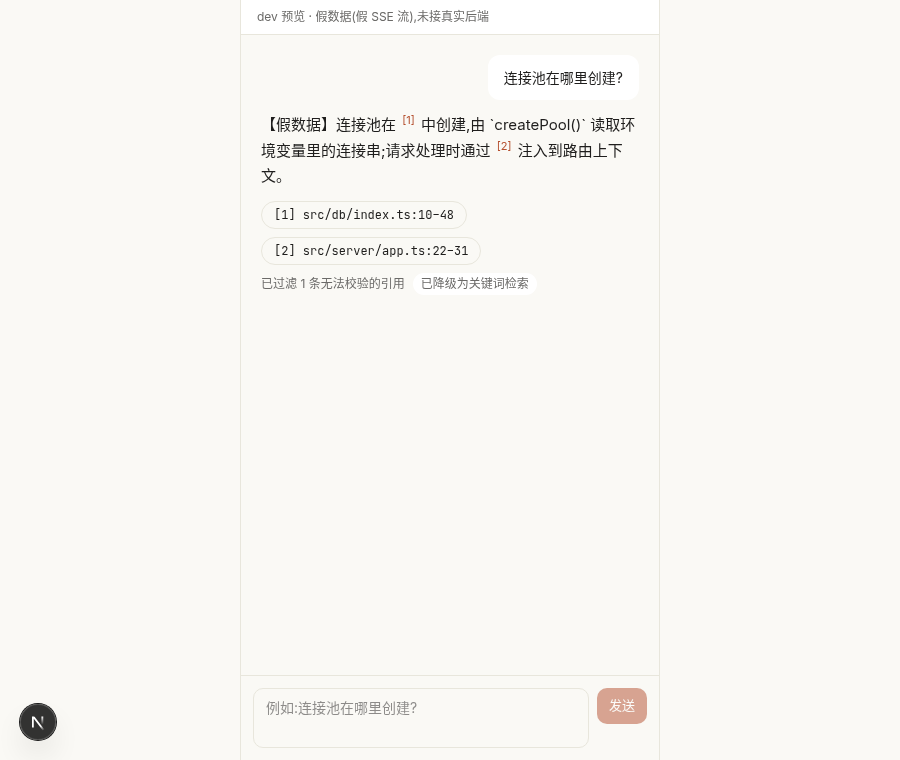
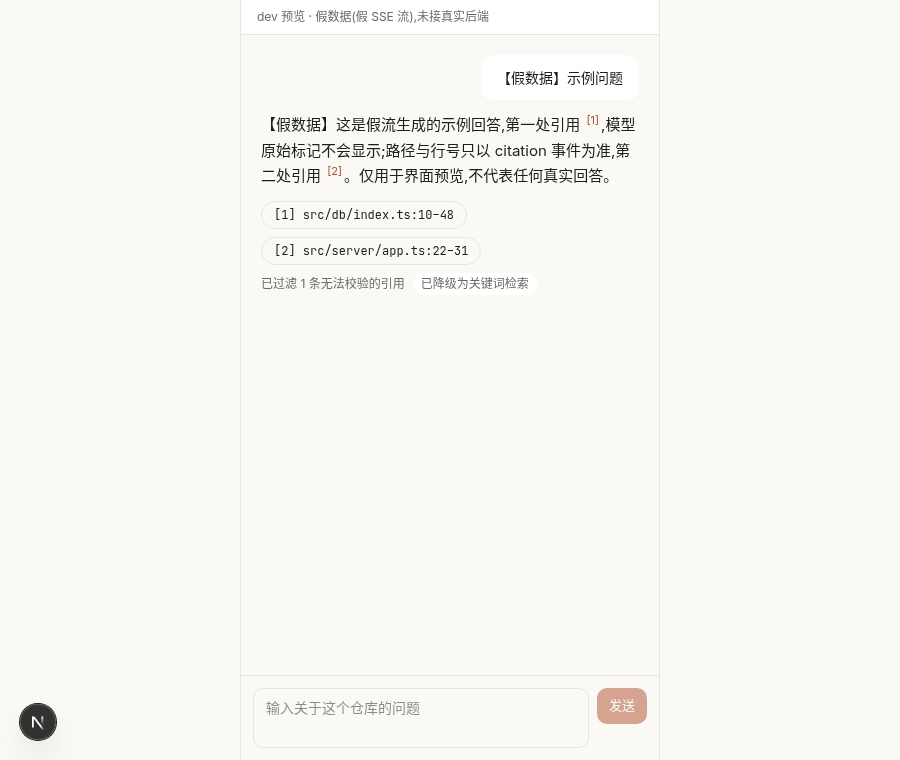
feat(web): 对齐问答端点裁定——请求体集中构造、2000 字/20 节点上限、隐藏 [[Sn:a-b]] 标记、fallback 未生成回答文案、断流可重试(T-230)

Changed region(s): [[0.28, 0.1513, 0.7156, 0.2421], [0.28, 0.9079, 0.4667, 0.9382], [0.56, 0.0908, 0.7156, 0.1211]]

diff --git a/apps/web/components/chat/ChatPanel.tsx b/apps/web/components/chat/ChatPanel.tsx
@@ -9,7 +9,13 @@ import {
   type AnswerAction,
 } from '../../lib/chat/answer';
 import { chatErrorText, RATE_LIMIT_COOLDOWN_S } from '../../lib/chat/errors';
-import { ChatTransportError, type ChatTransport } from '../../lib/chat/transport';
+import {
+  buildChatRequest,
+  CHAT_MESSAGE_MAX,
+  ChatTransportError,
+  stripCitationMarkers,
+  type ChatTransport,
+} from '../../lib/chat/transport';
 
 /** FRONTEND_DESIGN §6.1:20 秒内既没有 token 也没有 done/error,前端主动 abort */
 export const CLIENT_TIMEOUT_MS = 20_000;
@@ -70,10 +76,8 @@ export function ChatPanel({ repoId, transport, onCitationClick, contextNodeIds }
         timer = undefined;
       };
       try {
-        const req = {
-          message: question,
-          ...(contextNodeIds?.length ? { contextNodeIds } : {}),
-        };
+        const req = buildChatRequest(question, contextNodeIds);
+        if (!req) return;
         for await (const item of transport(repoId, req, ctrl.signal)) {
           if (!mine()) return;
           if (!item.ok) {
@@ -105,7 +109,7 @@ export function ChatPanel({ repoId, transport, onCitationClick, contextNodeIds }
 
   const ask = (question: string) => {
     const q = question.trim();
-    if (!q) return;
+    if (!q || q.length > CHAT_MESSAGE_MAX) return;
     const id = nextId.current++;
     setMsgs((ms) => [...ms, { id, question: q, answer: initialAnswer }]);
     void run(id, q);
@@ -157,14 +161,14 @@ export function ChatPanel({ repoId, transport, onCitationClick, contextNodeIds }
               }
             }}
             rows={2}
-            maxLength={4000}
-            placeholder="例如:连接池在哪里创建?"
+            maxLength={CHAT_MESSAGE_MAX}
+            placeholder="输入关于这个仓库的问题"
             className="min-w-0 flex-1 resize-none rounded-control border border-line bg-bg px-3 py-2 font-sans text-[14px] text-fg disabled:opacity-60"
           />
           <div className="flex flex-col gap-1">
             <button
               type="submit"
-              disabled={budgetOut || !input.trim()}
+              disabled={budgetOut || !input.trim() || input.trim().length > CHAT_MESSAGE_MAX}
               className="rounded-control bg-accent-strong px-3 py-2 text-[13px] text-on-accent disabled:opacity-50"
             >
               发送
@@ -211,7 +215,15 @@ function AnswerView({
       {a.segments.length > 0 && (
         <p className="whitespace-pre-wrap text-[15px] leading-[1.7] text-fg">
           {a.segments.map((s, i) => {
-            if (s.kind === 'text') return <span key={i}>{s.text}</span>;
+            if (s.kind === 'text')
+              return (
+                <span key={i}>
+                  {stripCitationMarkers(
+                    s.text,
+                    a.status === 'streaming' && i === a.segments.length - 1,
+                  )}
+                </span>
+              );
             const c = byId.get(s.id);
             return (
               <sup key={i}>
@@ -258,10 +270,10 @@ function AnswerNotes({ a, onRetry }: { a: Answer; onRetry: () => void }) {
       notes.push(
         <span
           key="fb"
-          title="模型给出的引用未通过校验,改用检索得到的片段"
+          title="问答额度已用完或生成服务暂不可用,本次未生成回答"
           className="rounded-full bg-panel px-2 py-0.5"
         >
-          引用来自检索结果
+          未生成回答:问答服务暂不可用或额度已用完,以下仅列出检索到的相关代码位置
         </span>,
       );
     if (a.done.retrieval === 'keyword-only')
@@ -279,7 +291,8 @@ function AnswerNotes({ a, onRetry }: { a: Answer; onRetry: () => void }) {
       cooldown: a.error.code === 'RATE_LIMITED',
     };
   else if (a.status === 'timeout') problem = { text: '回答超时,请重试', retry: true };
-  else if (a.status === 'interrupted') problem = { text: '回答中断', retry: true };
+  else if (a.status === 'interrupted')
+    problem = { text: '回答中途断开,已保留已输出内容,可重试', retry: true };
   else if (a.status === 'aborted') problem = { text: '已停止', retry: true };
   if (notes.length === 0 && !problem) return null;
   return (

diff --git a/apps/web/components/chat/ChatPanel.test.tsx b/apps/web/components/chat/ChatPanel.test.tsx
@@ -4,7 +4,7 @@ import { afterEach, describe, expect, it, vi } from 'vitest';
 import { createFakeTransport, DEMO_SCRIPT, type FakeStep } from '../../dev/fakeChatStream';
 import { ChatPanel, CLIENT_TIMEOUT_MS } from './ChatPanel';
 
-function ask(q = '连接池在哪里创建?') {
+function ask(q = '【假数据】示例问题') {
   fireEvent.change(screen.getByRole('textbox', { name: '提问' }), { target: { value: q } });
   fireEvent.click(screen.getByRole('button', { name: '发送' }));
 }
@@ -23,7 +23,7 @@ describe('<ChatPanel>(假流,未接真实后端)', () => {
     ask();
     await waitFor(() => expect(lastAnswer().dataset.status).toBe('done'));
     const a = lastAnswer();
-    expect(a).toHaveTextContent('连接池在 [1] 中创建');
+    expect(a).toHaveTextContent('第一处引用 [1],模型原始标记不会显示');
     expect(within(a).getByRole('list', { name: '引用' })).toHaveTextContent(
       'src/db/index.ts:10–48',
     );
@@ -32,7 +32,7 @@ describe('<ChatPanel>(假流,未接真实后端)', () => {
     expect(a.className).toContain('font-sans');
   });
 
-  it('retrieval=hybrid 或缺省时不显示降级提示;fallback=retrieval 显示「引用来自检索结果」', async () => {
+  it('retrieval=hybrid 或缺省时不显示降级提示;fallback=retrieval 显示「未生成回答」', async () => {
     render(
       <ChatPanel
         repoId={1}
@@ -53,7 +53,7 @@ describe('<ChatPanel>(假流,未接真实后端)', () => {
     ask();
     await waitFor(() => expect(lastAnswer().dataset.status).toBe('done'));
     expect(lastAnswer()).not.toHaveTextContent('已降级为关键词检索');
-    expect(lastAnswer()).toHaveTextContent('引用来自检索结果');
+    expect(lastAnswer()).toHaveTextContent('未生成回答');
   });
 
   it('点击角标或引用卡片回调该引用(由工作区跳到文件预览/图节点)', async () => {
@@ -141,11 +141,11 @@ describe('<ChatPanel>(假流,未接真实后端)', () => {
     expect(screen.getByRole('button', { name: '重试' })).toBeEnabled();
   });
 
-  it('流在 done 前结束 → 「回答中断」,保留已输出 token 与可点引用', async () => {
+  it('流在 done 前结束 → 「回答中途断开」可重试,保留已输出 token 与可点引用', async () => {
     render(<ChatPanel repoId={1} transport={createFakeTransport(DEMO_SCRIPT.slice(0, 4))} />);
     ask();
-    await waitFor(() => expect(screen.getByRole('alert')).toHaveTextContent('回答中断'));
-    expect(lastAnswer()).toHaveTextContent('连接池在');
+    await waitFor(() => expect(screen.getByRole('alert')).toHaveTextContent('回答中途断开'));
+    expect(lastAnswer()).toHaveTextContent('假流生成的示例回答');
     expect(screen.getByRole('button', { name: /src\/db\/index\.ts:10–48/ })).toBeTruthy();
   });
 

diff --git a/apps/web/lib/chat/transport.test.ts b/apps/web/lib/chat/transport.test.ts
@@ -1,5 +1,11 @@
 import { describe, expect, it, vi } from 'vitest';
-import { ChatTransportError, createFetchTransport, type ChatItem } from './transport';
+import {
+  buildChatRequest,
+  ChatTransportError,
+  createFetchTransport,
+  stripCitationMarkers,
+  type ChatItem,
+} from './transport';
 
 function sseResponse(body: string, status = 200) {
   return new Response(body, { status, headers: { 'content-type': 'text/event-stream' } });
@@ -69,5 +75,26 @@ describe('createFetchTransport', () => {
       throw new DOMException('aborted', 'AbortError');
     });
     expect(await drain(t(1, { message: 'q' }, ac.signal))).toEqual([]);
+  });
+});
+
+describe('buildChatRequest(请求体唯一构造点)', () => {
+  it('字段名 message;trim;空或超过 2000 字返回 null;contextNodeIds 最多 20 个', () => {
+    expect(buildChatRequest('  问  ')).toEqual({ message: '问' });
+    expect(buildChatRequest('   ')).toBeNull();
+    expect(buildChatRequest('x'.repeat(2000))?.message).toHaveLength(2000);
+    expect(buildChatRequest('x'.repeat(2001))).toBeNull();
+    const ids = Array.from({ length: 25 }, (_, i) => `f:src/a${i}.ts`);
+    expect(buildChatRequest('q', ids)?.contextNodeIds).toHaveLength(20);
+    expect(buildChatRequest('q', [])).toEqual({ message: 'q' });
+  });
+});
+
+describe('stripCitationMarkers', () => {
+  it('去掉 [[Sn:a-b]] 原始标记;流式时隐藏未闭合尾巴,结束后保留普通方括号', () => {
+    expect(stripCitationMarkers('见 [[S1:10-20]] 与[[S12:3-3]]。', false)).toBe('见  与。');
+    expect(stripCitationMarkers('见 [[S1:1', true)).toBe('见 ');
+    expect(stripCitationMarkers('数组 a[0]', true)).toBe('数组 a[0]');
+    expect(stripCitationMarkers('末尾 [', false)).toBe('末尾 [');
   });
 });

diff --git a/apps/web/lib/chat/transport.ts b/apps/web/lib/chat/transport.ts
@@ -4,6 +4,38 @@ import { ERROR_TEXT, looseError } from '../api/errors';
 import type { ChatErrorInfo } from './answer';
 import { parseSse } from './sse';
 
+/** 输入框上限(trim 后非空);架构师裁定可能收紧 shared 到 ≤2000,前端先按 2000 */
+export const CHAT_MESSAGE_MAX = 2000;
+/** W3 后端只做格式校验、不影响检索;前端最多传 20 个 */
+export const CHAT_CONTEXT_MAX = 20;
+
+/**
+ * 请求体唯一构造点:字段名只在这里出现。当前按 main 上 shared ChatRequestSchema 用 `message`;
+ * 若裁定改名(如 `question`)或 P1 收紧 schema,只改这一处。
+ * 返回 null 表示问题为空或超长,不发请求。
+ */
+export function buildChatRequest(
+  question: string,
+  contextNodeIds?: readonly string[],
+): ChatRequest | null {
+  const q = question.trim();
+  if (!q || q.length > CHAT_MESSAGE_MAX) return null;
+  const ctx = contextNodeIds?.slice(0, CHAT_CONTEXT_MAX);
+  return {
+    message: q,
+    ...(ctx?.length ? { contextNodeIds: ctx as ChatRequest['contextNodeIds'] } : {}),
+  };
+}
+
+/** 回答文本里模型输出的 [[Sn:a-b]] 标记:路径/行号一律以 citation 事件为准,原始标记不显示 */
+const MARKER = /\[\[S\d+:\d+-\d+\]\]/g;
+/** 流式中未闭合的标记尾巴(如 "[[S2:1"),先隐藏,等后续 token 补齐 */
+const PARTIAL = /\[(?:\[(?:S\d*(?::\d*(?:-\d*(?:\])?)?)?)?)?$/;
+export function stripCitationMarkers(text: string, streaming: boolean): string {
+  const t = text.replace(MARKER, '');
+  return streaming ? t.replace(PARTIAL, '') : t;
+}
+
 /** 传输层产出:通过 shared ChatEventSchema 的事件,或一个「不合法事件」标记 */
 export type ChatItem = { ok: true; event: ChatEvent } | { ok: false };
 

diff --git a/apps/web/dev/fakeChatStream.ts b/apps/web/dev/fakeChatStream.ts
@@ -47,7 +47,7 @@ export function createFakeTransport(
 /** dev 预览/截图用的示例回答(假数据):流式 token + 两条引用 + keyword-only 降级 */
 export const DEMO_SCRIPT: FakeStep[] = [
   { event: 'tool', data: { name: 'read_file', args: { path: 'src/db/index.ts' } } },
-  { event: 'token', data: { text: '【假数据】连接池在 ' } },
+  { event: 'token', data: { text: '【假数据】这是假流生成的示例回答,第一处引用 [[S1:10-48]]' } },
   {
     event: 'citation',
     data: {
@@ -58,9 +58,9 @@ export const DEMO_SCRIPT: FakeStep[] = [
       nodeId: 'f:src/db/index.ts',
     },
   },
-  { event: 'token', data: { text: ' 中创建,由 ' } },
-  { event: 'token', data: { text: '`createPool()` 读取环境变量里的连接串;' } },
-  { event: 'token', data: { text: '请求处理时通过 ' } },
+  { event: 'token', data: { text: ',模型原始标记不会显示;' } },
+  { event: 'token', data: { text: '路径与行号只以 citation 事件为准,' } },
+  { event: 'token', data: { text: '第二处引用 [[S2:22-31]]' } },
   {
     event: 'citation',
     data: {
@@ -71,7 +71,7 @@ export const DEMO_SCRIPT: FakeStep[] = [
       nodeId: 'f:src/server/app.ts',
     },
   },
-  { event: 'token', data: { text: ' 注入到路由上下文。' } },
+  { event: 'token', data: { text: '。仅用于界面预览,不代表任何真实回答。' } },
   {
     event: 'done',
     data: {

diff --git a/apps/web/app/a/[id]/AnalysisWorkspace.chat.test.tsx b/apps/web/app/a/[id]/AnalysisWorkspace.chat.test.tsx
@@ -59,6 +59,7 @@ describe('<AnalysisWorkspace> 问答联动(T-230,假流)', () => {
     );
     // 切回问答,对话仍在(面板常驻挂载)
     fireEvent.click(screen.getByRole('tab', { name: '问答' }));
-    expect(screen.getByText(/连接池在/)).toBeTruthy();
+    expect(screen.getByText(/假流生成的示例回答/)).toBeTruthy();
+    expect(document.body.textContent).not.toMatch(/\[\[S\d/);
   });
 });
